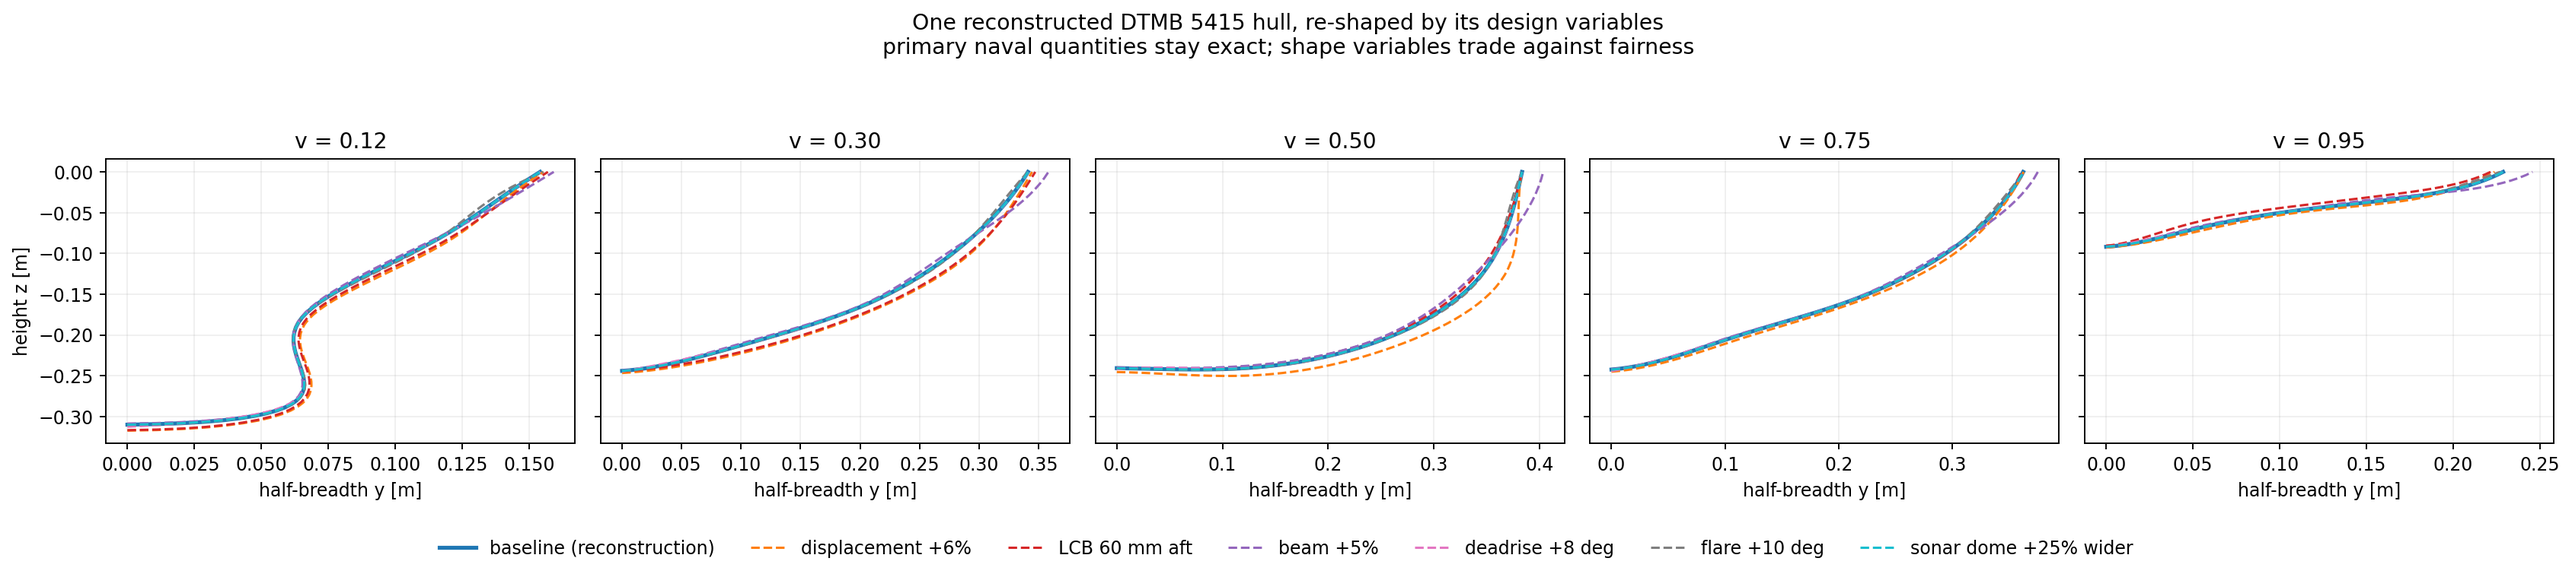
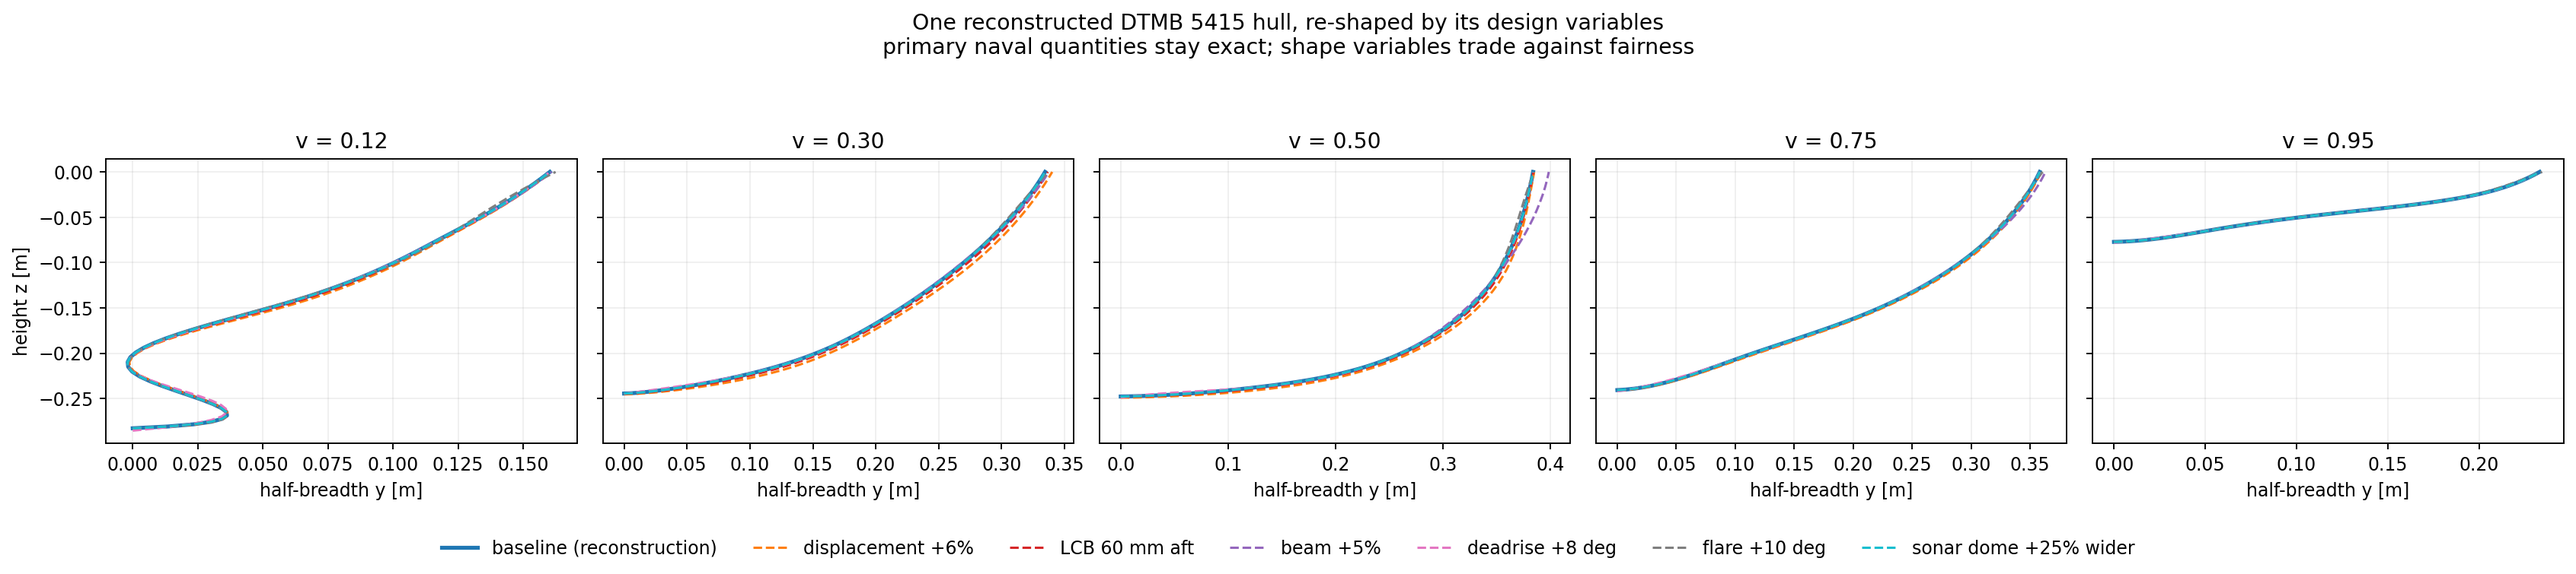
Measure design-variable movement directly instead of inferring it
An earlier note recorded the sonar-dome variable as inert. That conclusion
came from an instrument that could not have detected the effect: the summary
prints total thin-plate energy to four significant figures, which cannot
resolve a change confined to two of ten sections, and every plotted station
sat aft of a dome ending at v = 0.117.

Checking the mechanism separately shows the waypoints are applied at both dome
generating stations, v = 0.02 and v = 0.05, at depth fractions 0.80 and 0.83.
So the machinery is live and the earlier reading was an artifact.

The sweep now reports maximum geometric displacement from the baseline hull in
millimetres, split into whole-hull and dome-only, and plots two dome stations.
That answers the question directly rather than inferring shape change from an
aggregate energy.

Claude-Session: https://claude.ai/code/session_01LU2QNUcyNtY9AJVwHKXnsR

diff --git a/examples/dtmb_5415_design_variables.py b/examples/dtmb_5415_design_variables.py
@@ -192,7 +192,9 @@ def main() -> None:
         + surface.fairness_energy((0, 2))
     )
     body_parameters = np.linspace(0.0, 1.0, 61)
-    body_stations = (0.12, 0.30, 0.50, 0.75, 0.95)
+    # Two dome stations are included deliberately. A knob acting only on the
+    # bulb cannot be seen in a total-energy figure or at stations aft of it.
+    body_stations = (0.03, 0.06, 0.12, 0.30, 0.50, 0.75, 0.95)
     outputs: dict[str, csdl.Variable] = {
         "constraint_residual": geometry.hull.variational_result.constraint_residual,
         "fairness_energy": fairness,
@@ -231,6 +233,21 @@ def main() -> None:
         elapsed = time.time() - start
         values = {key: np.asarray(simulator[var]) for key, var in outputs.items()}
         values["_seconds"] = np.asarray(elapsed)
+        # Direct geometric movement, per region, against the baseline hull.
+        # Aggregate energy cannot reveal a knob that acts on two sections.
+        sections = np.concatenate(
+            [values[f"section_{i}"] for i in range(len(body_stations))]
+        )
+        dome = np.concatenate([values[f"section_{i}"] for i in (0, 1)])
+        if solve.baseline_sections is None:
+            solve.baseline_sections = sections
+            solve.baseline_dome = dome
+            move = dome_move = 0.0
+        else:
+            move = float(np.max(np.abs(sections - solve.baseline_sections)))
+            dome_move = float(np.max(np.abs(dome - solve.baseline_dome)))
+        values["_move"] = np.asarray(move)
+        values["_dome_move"] = np.asarray(dome_move)
         print(
             f"{label:<26} "
             f"B={float(values['primary_beam'].reshape(-1)[0]):.4f} "
@@ -240,9 +257,13 @@ def main() -> None:
             f"| fair={float(values['fairness_energy'].reshape(-1)[0]):.4g} "
             f"minJ={float(values['min_jacobian'].reshape(-1)[0]):.3g} "
             f"|c|={float(np.max(np.abs(values['constraint_residual']))):.1e} "
-            f"{elapsed:.3f}s"
+            f"| move={move * 1e3:7.2f}mm dome={dome_move * 1e3:7.2f}mm "
+            f"{elapsed:.2f}s"
         )
         return values
+
+    solve.baseline_sections = None
+    solve.baseline_dome = None
 
     def defaults() -> dict[str, np.ndarray]:
         values = {
